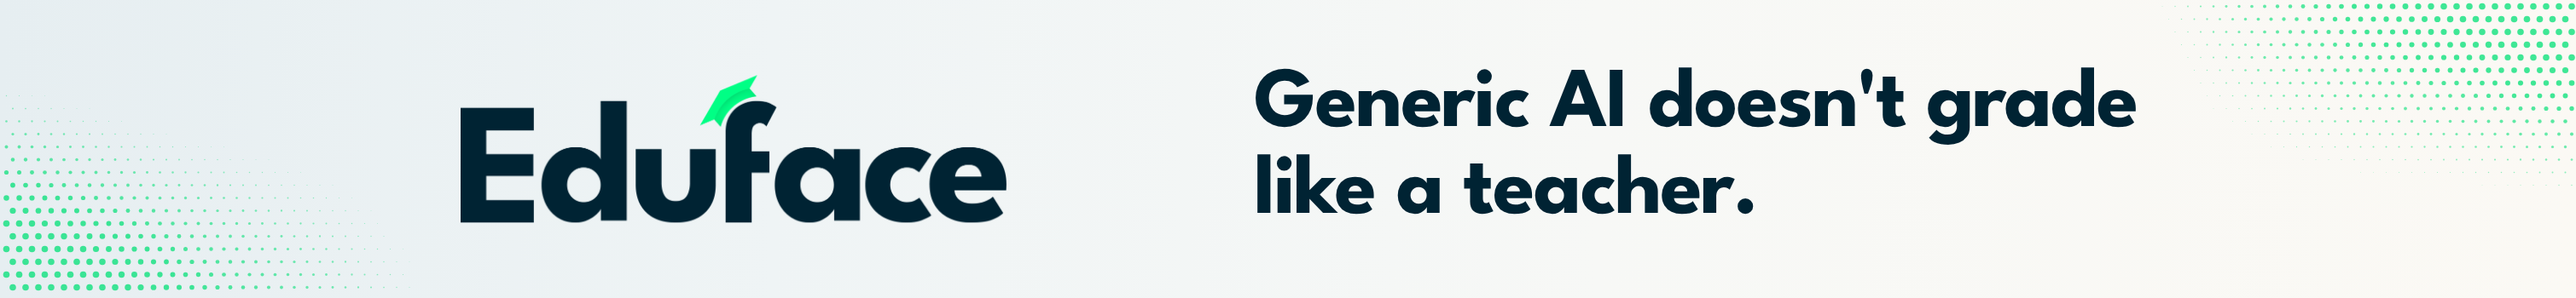
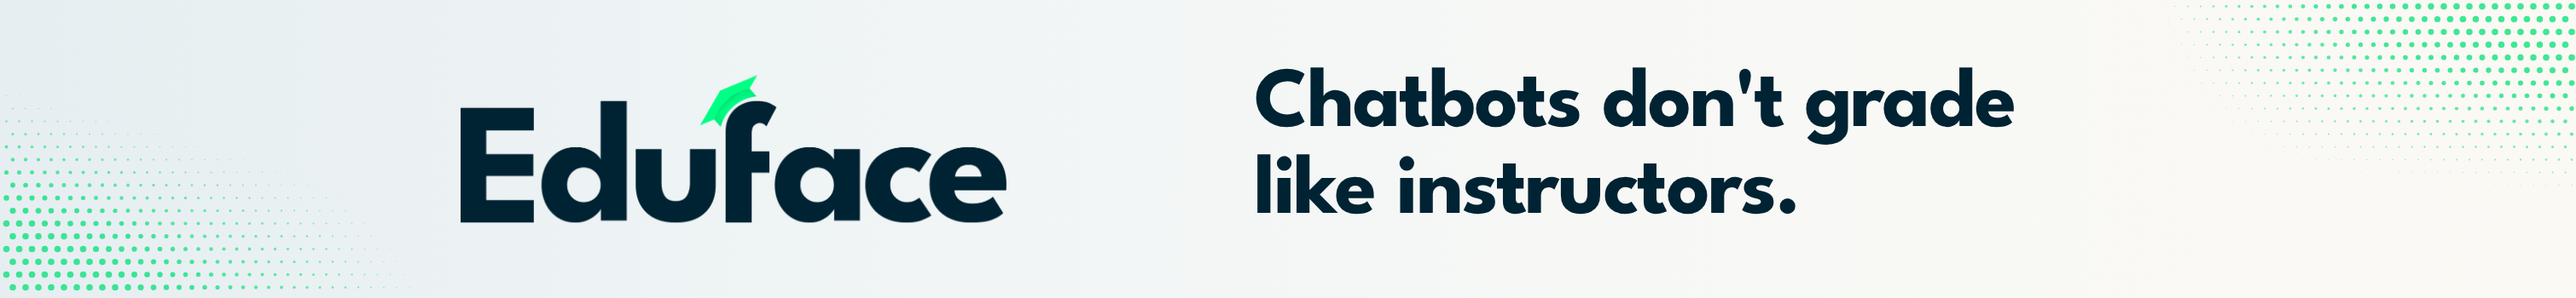
Backwall: beelden bij de quotes, licht-rode tool-box, Eduface AI met 250.000; gevel: Chatbots don't grade like instructors
Claude-Session: https://claude.ai/code/session_011t24oRcD5DFuXzKigdVhtb

Changed region(s): [[0.498, 0.2286, 0.8404, 0.4857], [0.5291, 0.5143, 0.7159, 0.7143]]

diff --git a/creatives/beurs-backwall/backwall.html b/creatives/beurs-backwall/backwall.html
@@ -4,8 +4,8 @@
 <meta charset="utf-8">
 <title>Beurs backwall</title>
 <style>
-  /* Canvas: 1 px = 1 mm. Wand is 2954 x 2520 mm. De kop staat op de gevel (facade.html), de wand heeft alleen quotes en Eduface.
-     Lettersysteem, drie maten: L 104 Inter (quotes) / M 68 League Spartan (koppen) / S 46 Inter (bronnen, labels). */
+  /* Canvas: 1 px = 1 mm. Wand 2954 x 2520 mm. De kop staat op de gevel (facade.html).
+     Lettersysteem: L 96 Inter (quotes) / M 84 League Spartan (koppen) / S 46 Inter (bronnen, labels) / XL 150 Spartan (alleen het getal). */
   @font-face { font-family: "League Spartan"; font-weight: 700; src: url("../../Design/Merk/fonts/LeagueSpartan-Bold.ttf"); }
   @font-face { font-family: "Inter"; font-weight: 400; src: url("../../Design/Merk/fonts/Inter-Regular.ttf"); }
   :root { --w: 2954px; --h: 2520px; --navy: #002333; --gd: #007b54; --g: #00e075; --i7: #2c4a57; --i5: #5b7480; --i3: #a9bcc4; --i2: #cdd9de; --i50: #f3f7f8; --red: #b3261e; }
@@ -18,37 +18,41 @@
       linear-gradient(180deg, #dce7ee 0%, #e2edf1 20%, #ecf3f5 40%, #f4f6f6 55%, #eff3f3 70%, #e4edf1 90%, #dde8ee 100%);
   }
   .logo { position: absolute; right: 128px; bottom: 128px; width: 420px; height: auto; }
-
   .row { position: absolute; left: 128px; top: 128px; width: 2698px; display: flex; gap: 36px; align-items: stretch; }
 
-  /* links: quotes. Rood alleen in het kleine vlak rond de drie tools. */
-  .q { width: 1400px; background: #fff; border-radius: 56px; padding: 64px 68px 64px; display: flex; flex-direction: column; justify-content: space-between; gap: 56px;
+  /* links: quotes met beeld. Rood alleen, en licht, in het kleine tool-vak. */
+  .q { width: 1500px; background: #fff; border-radius: 56px; padding: 64px 68px; display: flex; flex-direction: column; justify-content: space-between; gap: 52px;
        box-shadow: 0 10px 28px rgba(0,35,51,.10), 0 50px 110px rgba(0,35,51,.20); }
-  .qs { display: flex; flex-direction: column; gap: 60px; }
-  .qone { display: flex; gap: 22px; align-items: flex-start; }
-  .qm { font: 700 150px/.8 "League Spartan"; color: var(--i3); width: 76px; flex: none; margin-top: 10px; }
-  .qt { font: 400 104px/1.16 Inter; color: var(--navy); letter-spacing: -.005em; }
+  .qs { display: flex; flex-direction: column; gap: 56px; }
+  .qone { display: flex; gap: 44px; align-items: center; }
+  .vis { flex: none; width: 280px; height: 240px; }
+  .qt { font: 400 96px/1.16 Inter; color: var(--navy); letter-spacing: -.005em; }
+  .qt .qm { font: 700 96px/1 "League Spartan"; color: var(--i3); margin-right: 8px; }
   .qt mark { background: rgba(0,35,51,.08); color: inherit; padding: 0 12px; margin: 0 -12px; border-radius: 14px; -webkit-box-decoration-break: clone; box-decoration-break: clone; }
-  .who { font: 400 46px/1.2 Inter; color: var(--i5); margin-top: 22px; }
+  .who { font: 400 46px/1.2 Inter; color: var(--i5); margin-top: 18px; }
 
-  .tools .lab { font: 700 68px/1 "League Spartan"; letter-spacing: -.01em; color: var(--navy); margin-bottom: 26px; }
-  .redbox { display: inline-flex; gap: 20px; background: var(--red); border-radius: 36px; padding: 26px 28px; box-shadow: 0 10px 24px rgba(179,38,30,.28); }
-  .tl { width: 232px; height: 176px; border-radius: 26px; background: rgba(255,255,255,.14); box-shadow: inset 0 0 0 4px rgba(255,255,255,.42);
-        display: flex; flex-direction: column; align-items: center; justify-content: center; gap: 14px; font: 400 46px/1 Inter; color: #fff; }
-  .tl img { width: 70px; height: 70px; filter: brightness(0) invert(1); }
+  .tools .lab { font: 700 84px/1 "League Spartan"; letter-spacing: -.01em; color: var(--navy); margin-bottom: 26px; }
+  .redbox { display: inline-flex; gap: 22px; background: #f8e3e0; border: 4px solid #eec3be; border-radius: 40px; padding: 28px 32px; }
+  .tl { position: relative; width: 250px; height: 168px; border-radius: 28px; background: #fff; box-shadow: inset 0 0 0 4px #efc9c4;
+        display: flex; flex-direction: column; align-items: center; justify-content: center; gap: 14px; font: 400 46px/1 Inter; color: var(--i7); }
+  .tl img { width: 66px; height: 66px; opacity: .85; }
+  .x { position: absolute; top: -18px; right: -18px; width: 54px; height: 54px; border-radius: 50%; background: var(--red); box-shadow: 0 4px 10px rgba(179,38,30,.35); }
 
-  /* rechts: Eduface */
-  .e { width: 1262px; background: var(--navy); color: #fff; border-radius: 56px; padding: 64px 68px; display: flex; flex-direction: column; justify-content: space-between; gap: 56px;
+  /* rechts: Eduface. Icoon boven, tekst eronder. */
+  .e { width: 1162px; background: var(--navy); color: #fff; border-radius: 56px; padding: 64px 68px; display: flex; flex-direction: column; gap: 36px;
        box-shadow: 0 14px 34px rgba(0,35,51,.28), 0 60px 130px rgba(0,35,51,.34); }
   .es { flex: 1; display: flex; flex-direction: column; justify-content: space-evenly; }
-  .er { display: flex; align-items: center; gap: 44px; }
-  .it { flex: none; width: 250px; height: 250px; border-radius: 64px; background: rgba(255,255,255,.1); display: flex; align-items: center; justify-content: center; }
-  .eh { font: 700 68px/1.04 "League Spartan"; letter-spacing: -.01em; }
+  .eb .it { width: 150px; height: 150px; border-radius: 40px; background: rgba(255,255,255,.1); display: flex; align-items: center; justify-content: center; margin-bottom: 20px; }
+  .eh { font: 700 84px/1.04 "League Spartan"; letter-spacing: -.015em; }
   .eh span { color: var(--g); }
-  .own { height: 218px; border-radius: 36px; box-shadow: inset 0 0 0 6px var(--g); display: flex; align-items: center; gap: 30px; padding: 0 52px; }
-  .own img { height: 86px; width: auto; }
-  .own .ai { font: 700 68px/1 "League Spartan"; color: var(--g); letter-spacing: -.01em; }
-  .own .t2 { margin-left: auto; font: 400 46px/1.15 Inter; color: rgba(255,255,255,.8); text-align: right; }
+  .arrow { align-self: center; margin: 0; }
+  .own { margin-top: auto; border-radius: 40px; box-shadow: inset 0 0 0 6px var(--g); padding: 44px 52px; }
+  .own .top { display: flex; align-items: center; gap: 26px; }
+  .own .top img { height: 84px; width: auto; }
+  .own .top .ai { font: 700 84px/1 "League Spartan"; color: var(--g); letter-spacing: -.01em; }
+  .own .n { font: 700 150px/1 "League Spartan"; letter-spacing: -.025em; margin-top: 22px; }
+  .own .l { font: 400 46px/1.2 Inter; color: rgba(255,255,255,.85); margin-top: 8px; }
+  .own .d { font: 400 46px/1.2 Inter; color: rgba(255,255,255,.7); margin-top: 26px; }
 
   .lms { position: absolute; left: 128px; top: 2278px; height: 114px; display: flex; align-items: center; gap: 52px; }
   .lms img { height: 62px; width: auto; filter: grayscale(1) contrast(.9); opacity: .5; }
@@ -63,26 +67,50 @@
   </div>
 
 <script>
-const N='#002333', G='#00e075', W='#fff';
+const N='#002333', G='#00e075', W='#fff', I2='#cdd9de', I5='#5b7480', RED='#b3261e';
 const L=(f)=>`assets/logos/${f}.svg`;
-const sv=(inner,s=172)=>`<svg width="${s}" height="${s}" viewBox="0 0 400 400">${inner}</svg>`;
+const sv=(inner,s=120)=>`<svg width="${s}" height="${s}" viewBox="0 0 400 400">${inner}</svg>`;
 
-/* Quotes: formulering van Dante, 25-11-2026. Bron van quote 2 en 3 staat in de case study; de herschreven zinnen zijn nog niet aan die personen voorgelegd (V15). Quote 1: bron onbekend (V17). */
-const q=(t,w)=>`<div class="qone"><div class="qm">“</div><div><div class="qt">${t}</div>${w?`<div class="who">${w}</div>`:''}</div></div>`;
+/* ---- beelden bij de quotes (280 x 240) ---- */
+const lines=(x,y,w,n,c=I2)=>Array.from({length:n},(_,i)=>`<rect x="${x}" y="${y+i*16}" width="${i===n-1?w*.6:w}" height="7" rx="3.5" fill="${c}"/>`).join('');
+const sheet=(x,y,w,h)=>`<rect x="${x}" y="${y}" width="${w}" height="${h}" rx="12" fill="#fff" stroke="${N}" stroke-width="6"/>${lines(x+14,y+18,w-28,4)}`;
+// 1. Dezelfde opdracht twee keer, twee verschillende cijfers
+const vis1=`<svg class="vis" viewBox="0 0 280 240">${sheet(10,6,108,116)}${sheet(162,6,108,116)}
+  <path d="M64,128 V152" stroke="${N}" stroke-width="6" stroke-linecap="round"/><path d="M216,128 V152" stroke="${N}" stroke-width="6" stroke-linecap="round"/>
+  <rect x="22" y="158" width="84" height="74" rx="18" fill="${N}"/><text x="64" y="212" text-anchor="middle" font-family="League Spartan" font-weight="700" font-size="54" fill="#fff">B</text>
+  <rect x="174" y="158" width="84" height="74" rx="18" fill="${N}"/><text x="216" y="212" text-anchor="middle" font-family="League Spartan" font-weight="700" font-size="54" fill="#fff">D</text>
+  <circle cx="140" cy="195" r="22" fill="#fff" stroke="${RED}" stroke-width="5"/><path d="M128,189 H152 M128,201 H152 M146,180 L134,210" stroke="${RED}" stroke-width="5" stroke-linecap="round"/></svg>`;
+// 2. Robot: dezelfde generieke feedback voor iedere student
+const bub=(x)=>`<rect x="${x}" y="122" width="76" height="50" rx="12" fill="#fff" stroke="${N}" stroke-width="5"/>${lines(x+12,136,52,2,I5)}<path d="M${x+26},172 l-6,12 l18,-12" fill="#fff" stroke="${N}" stroke-width="5" stroke-linejoin="round"/><circle cx="${x+38}" cy="206" r="14" fill="${I2}"/><path d="M${x+14},236 q24,-30 48,0" fill="${I2}"/>`;
+const vis2=`<svg class="vis" viewBox="0 0 280 240"><line x1="140" y1="4" x2="140" y2="20" stroke="${N}" stroke-width="6" stroke-linecap="round"/><circle cx="140" cy="6" r="6" fill="${N}"/>
+  <rect x="92" y="22" width="96" height="76" rx="22" fill="#fff" stroke="${N}" stroke-width="6"/><circle cx="118" cy="52" r="9" fill="${N}"/><circle cx="162" cy="52" r="9" fill="${N}"/><path d="M118,76 H162" stroke="${N}" stroke-width="6" stroke-linecap="round" stroke-dasharray="6 8"/>
+  ${bub(4)}${bub(102)}${bub(200)}</svg>`;
+// 3. Elke opdracht opnieuw promoten
+const pr=(x)=>`${sheet(x,6,76,90)}<path d="M${x+38},100 V114" stroke="${N}" stroke-width="5" stroke-linecap="round"/><rect x="${x-4}" y="118" width="84" height="40" rx="20" fill="${N}"/><rect x="${x+14}" y="133" width="30" height="8" rx="4" fill="${W}"/><rect x="${x+52}" y="130" width="4" height="14" fill="${G}"/>`;
+const vis3=`<svg class="vis" viewBox="0 0 280 240">${pr(14)}${pr(102)}${pr(190)}
+  <path d="M58,196 q82,50 164,0" fill="none" stroke="${N}" stroke-width="6" stroke-linecap="round"/><path d="M212,182 l16,12 l-20,8" fill="none" stroke="${N}" stroke-width="6" stroke-linecap="round" stroke-linejoin="round"/></svg>`;
+
+/* ---- links ---- */
+const q=(vis,t,w)=>`<div class="qone">${vis}<div><div class="qt"><span class="qm">“</span>${t}</div>${w?`<div class="who">${w}</div>`:''}</div></div>`;
 const R1='Head of academic innovation, private university', R2='AVP instructional design, US technical college';
-const tool=(img,name)=>`<div class="tl"><img src="${L(img)}">${name}</div>`;
+const x=`<div class="x"><svg width="54" height="54" viewBox="0 0 54 54"><path d="M18,18 L36,36 M36,18 L18,36" stroke="#fff" stroke-width="6" stroke-linecap="round"/></svg></div>`;
+const tool=(img,name)=>`<div class="tl"><img src="${L(img)}">${name}${x}</div>`;
 const left=`<div class="q"><div class="qs">`+
-  q('Same rubric, same essay, uploaded twice. <mark>Two different grades.</mark>','')+
-  q('After a few essays it goes generic. <mark>Every student gets the same feedback.</mark>',R1)+
-  q('You have to re-prompt it <mark>for every single assignment.</mark>',R2)+
-  `</div><div class="tools"><div class="lab">Not built for marking.</div><div class="redbox">${tool('openai','ChatGPT')}${tool('googlegemini','Gemini')}${tool('claude','Claude')}</div></div></div>`;
+  q(vis1,'Same rubric, same essay, uploaded twice. <mark>Two different grades.</mark>','')+
+  q(vis2,'After a few essays it goes generic. <mark>Every student gets the same feedback.</mark>',R1)+
+  q(vis3,'You have to re-prompt it <mark>for every single assignment.</mark>',R2)+
+  `</div><div class="tools"><div class="lab">Not built for grading.</div><div class="redbox">${tool('openai','ChatGPT')}${tool('googlegemini','Gemini')}${tool('claude','Claude')}</div></div></div>`;
 
+/* ---- rechts ---- */
 const icTeacher=sv(`<circle cx="150" cy="108" r="64" fill="none" stroke="${W}" stroke-width="30"/><path d="M36,340 C36,236 264,236 264,340" fill="none" stroke="${W}" stroke-width="30" stroke-linecap="round"/><circle cx="312" cy="294" r="62" fill="${G}"/><polyline points="282,294 304,316 342,270" fill="none" stroke="${N}" stroke-width="22" stroke-linecap="round" stroke-linejoin="round"/>`);
 const icBubbles=sv(`<rect x="30" y="34" width="230" height="104" rx="38" fill="none" stroke="${W}" stroke-width="26"/><rect x="60" y="68" width="110" height="18" rx="9" fill="${W}"/><rect x="140" y="156" width="230" height="104" rx="38" fill="rgba(255,255,255,.14)" stroke="${W}" stroke-width="26"/><rect x="172" y="190" width="150" height="18" rx="9" fill="${W}"/><rect x="30" y="278" width="230" height="104" rx="38" fill="none" stroke="${W}" stroke-width="26"/><rect x="60" y="312" width="84" height="18" rx="9" fill="${G}"/>`);
 const icSheets=sv(`<rect x="130" y="24" width="220" height="270" rx="30" fill="none" stroke="${W}" stroke-width="22" opacity=".4"/><rect x="90" y="64" width="220" height="270" rx="30" fill="none" stroke="${W}" stroke-width="22" opacity=".7"/><rect x="44" y="108" width="220" height="270" rx="30" fill="${N}" stroke="${W}" stroke-width="26"/>${[160,222,284].map(y=>`<polyline points="76,${y} 92,${y+16} 118,${y-14}" fill="none" stroke="${G}" stroke-width="14" stroke-linecap="round" stroke-linejoin="round"/><rect x="134" y="${y-8}" width="98" height="14" rx="7" fill="${W}"/>`).join('')}`);
-const ER=[{ic:icTeacher,h:'Trained on how <span>teachers mark.</span>'},{ic:icBubbles,h:'Feedback <span>per student.</span>'},{ic:icSheets,h:'Set up <span>once.</span>'}];
-const right=`<div class="e"><div class="es">`+ER.map(r=>`<div class="er"><div class="it">${r.ic}</div><div class="eh">${r.h}</div></div>`).join('')+
-  `</div><div class="own"><img src="assets/logos/eduface-white.png"><div class="ai">AI</div><div class="t2">our own<br>model</div></div></div>`;
+const EB=[{ic:icTeacher,h:'Trained on how <span>instructors grade.</span>'},{ic:icBubbles,h:'Feedback <span>per student.</span>'},{ic:icSheets,h:'Set up <span>once.</span>'}];
+const arrow=`<svg class="arrow" width="96" height="84" viewBox="0 0 96 84"><path d="M48,6 V62" stroke="${G}" stroke-width="12" stroke-linecap="round"/><polyline points="20,40 48,70 76,40" fill="none" stroke="${G}" stroke-width="12" stroke-linecap="round" stroke-linejoin="round"/></svg>`;
+const right=`<div class="e"><div class="es">`+EB.map(r=>`<div class="eb"><div class="it">${r.ic}</div><div class="eh">${r.h}</div></div>`).join('')+`</div>${arrow}
+  <div class="own"><div class="top"><img src="assets/logos/eduface-white.png"><div class="ai">AI</div></div>
+  <div class="n">250,000</div><div class="l">education-specific feedback examples</div>
+  <div class="d">Developed with the help of Leiden University and Radboud University.</div></div></div>`;
 
 const lms=`<div class="lms"><div class="lab">Integrated with your LMS</div><img src="assets/logos/lms-canvas.png"><img src="assets/logos/lms-moodle.png"><img src="assets/logos/lms-blackboard.png"><img src="assets/logos/lms-brightspace.png"><div class="wm">itslearning</div><div class="wm">NEO LMS</div></div>`;
 document.getElementById('layer-content').innerHTML = `<div class="row">${left}${right}</div>${lms}`;

diff --git a/creatives/beurs-backwall/backwall-links-rechts-2026-11-25.html b/creatives/beurs-backwall/backwall-links-rechts-2026-11-25.html
@@ -1,0 +1,91 @@
+<!doctype html>
+<html lang="en">
+<head>
+<meta charset="utf-8">
+<title>Beurs backwall</title>
+<style>
+  /* Canvas: 1 px = 1 mm. Wand is 2954 x 2520 mm. De kop staat op de gevel (facade.html), de wand heeft alleen quotes en Eduface.
+     Lettersysteem, drie maten: L 104 Inter (quotes) / M 68 League Spartan (koppen) / S 46 Inter (bronnen, labels). */
+  @font-face { font-family: "League Spartan"; font-weight: 700; src: url("../../Design/Merk/fonts/LeagueSpartan-Bold.ttf"); }
+  @font-face { font-family: "Inter"; font-weight: 400; src: url("../../Design/Merk/fonts/Inter-Regular.ttf"); }
+  :root { --w: 2954px; --h: 2520px; --navy: #002333; --gd: #007b54; --g: #00e075; --i7: #2c4a57; --i5: #5b7480; --i3: #a9bcc4; --i2: #cdd9de; --i50: #f3f7f8; --red: #b3261e; }
+  * { margin: 0; box-sizing: border-box; }
+  html, body { width: var(--w); height: var(--h); }
+  .wall {
+    position: relative; width: var(--w); height: var(--h); overflow: hidden; color: var(--navy);
+    background:
+      radial-gradient(ellipse 80% 45% at 90% 52%, #f9f8f7 0%, rgba(249,248,247,0) 100%),
+      linear-gradient(180deg, #dce7ee 0%, #e2edf1 20%, #ecf3f5 40%, #f4f6f6 55%, #eff3f3 70%, #e4edf1 90%, #dde8ee 100%);
+  }
+  .logo { position: absolute; right: 128px; bottom: 128px; width: 420px; height: auto; }
+
+  .row { position: absolute; left: 128px; top: 128px; width: 2698px; display: flex; gap: 36px; align-items: stretch; }
+
+  /* links: quotes. Rood alleen in het kleine vlak rond de drie tools. */
+  .q { width: 1400px; background: #fff; border-radius: 56px; padding: 64px 68px 64px; display: flex; flex-direction: column; justify-content: space-between; gap: 56px;
+       box-shadow: 0 10px 28px rgba(0,35,51,.10), 0 50px 110px rgba(0,35,51,.20); }
+  .qs { display: flex; flex-direction: column; gap: 60px; }
+  .qone { display: flex; gap: 22px; align-items: flex-start; }
+  .qm { font: 700 150px/.8 "League Spartan"; color: var(--i3); width: 76px; flex: none; margin-top: 10px; }
+  .qt { font: 400 104px/1.16 Inter; color: var(--navy); letter-spacing: -.005em; }
+  .qt mark { background: rgba(0,35,51,.08); color: inherit; padding: 0 12px; margin: 0 -12px; border-radius: 14px; -webkit-box-decoration-break: clone; box-decoration-break: clone; }
+  .who { font: 400 46px/1.2 Inter; color: var(--i5); margin-top: 22px; }
+
+  .tools .lab { font: 700 68px/1 "League Spartan"; letter-spacing: -.01em; color: var(--navy); margin-bottom: 26px; }
+  .redbox { display: inline-flex; gap: 20px; background: var(--red); border-radius: 36px; padding: 26px 28px; box-shadow: 0 10px 24px rgba(179,38,30,.28); }
+  .tl { width: 232px; height: 176px; border-radius: 26px; background: rgba(255,255,255,.14); box-shadow: inset 0 0 0 4px rgba(255,255,255,.42);
+        display: flex; flex-direction: column; align-items: center; justify-content: center; gap: 14px; font: 400 46px/1 Inter; color: #fff; }
+  .tl img { width: 70px; height: 70px; filter: brightness(0) invert(1); }
+
+  /* rechts: Eduface */
+  .e { width: 1262px; background: var(--navy); color: #fff; border-radius: 56px; padding: 64px 68px; display: flex; flex-direction: column; justify-content: space-between; gap: 56px;
+       box-shadow: 0 14px 34px rgba(0,35,51,.28), 0 60px 130px rgba(0,35,51,.34); }
+  .es { flex: 1; display: flex; flex-direction: column; justify-content: space-evenly; }
+  .er { display: flex; align-items: center; gap: 44px; }
+  .it { flex: none; width: 250px; height: 250px; border-radius: 64px; background: rgba(255,255,255,.1); display: flex; align-items: center; justify-content: center; }
+  .eh { font: 700 68px/1.04 "League Spartan"; letter-spacing: -.01em; }
+  .eh span { color: var(--g); }
+  .own { height: 218px; border-radius: 36px; box-shadow: inset 0 0 0 6px var(--g); display: flex; align-items: center; gap: 30px; padding: 0 52px; }
+  .own img { height: 86px; width: auto; }
+  .own .ai { font: 700 68px/1 "League Spartan"; color: var(--g); letter-spacing: -.01em; }
+  .own .t2 { margin-left: auto; font: 400 46px/1.15 Inter; color: rgba(255,255,255,.8); text-align: right; }
+
+  .lms { position: absolute; left: 128px; top: 2278px; height: 114px; display: flex; align-items: center; gap: 52px; }
+  .lms img { height: 62px; width: auto; filter: grayscale(1) contrast(.9); opacity: .5; }
+  .lms .wm { font: 700 46px/1 "League Spartan"; letter-spacing: -.01em; color: var(--i5); opacity: .75; white-space: nowrap; }
+  .lms .lab { position: absolute; left: 0; top: -62px; font: 400 46px/1 Inter; color: var(--i5); white-space: nowrap; }
+</style>
+</head>
+<body>
+  <div class="wall" id="wall">
+    <div id="layer-content"></div>
+    <img class="logo" src="../../Design/Merk/logos/logo_navy.png" alt="Eduface">
+  </div>
+
+<script>
+const N='#002333', G='#00e075', W='#fff';
+const L=(f)=>`assets/logos/${f}.svg`;
+const sv=(inner,s=172)=>`<svg width="${s}" height="${s}" viewBox="0 0 400 400">${inner}</svg>`;
+
+/* Quotes: formulering van Dante, 25-11-2026. Bron van quote 2 en 3 staat in de case study; de herschreven zinnen zijn nog niet aan die personen voorgelegd (V15). Quote 1: bron onbekend (V17). */
+const q=(t,w)=>`<div class="qone"><div class="qm">“</div><div><div class="qt">${t}</div>${w?`<div class="who">${w}</div>`:''}</div></div>`;
+const R1='Head of academic innovation, private university', R2='AVP instructional design, US technical college';
+const tool=(img,name)=>`<div class="tl"><img src="${L(img)}">${name}</div>`;
+const left=`<div class="q"><div class="qs">`+
+  q('Same rubric, same essay, uploaded twice. <mark>Two different grades.</mark>','')+
+  q('After a few essays it goes generic. <mark>Every student gets the same feedback.</mark>',R1)+
+  q('You have to re-prompt it <mark>for every single assignment.</mark>',R2)+
+  `</div><div class="tools"><div class="lab">Not built for marking.</div><div class="redbox">${tool('openai','ChatGPT')}${tool('googlegemini','Gemini')}${tool('claude','Claude')}</div></div></div>`;
+
+const icTeacher=sv(`<circle cx="150" cy="108" r="64" fill="none" stroke="${W}" stroke-width="30"/><path d="M36,340 C36,236 264,236 264,340" fill="none" stroke="${W}" stroke-width="30" stroke-linecap="round"/><circle cx="312" cy="294" r="62" fill="${G}"/><polyline points="282,294 304,316 342,270" fill="none" stroke="${N}" stroke-width="22" stroke-linecap="round" stroke-linejoin="round"/>`);
+const icBubbles=sv(`<rect x="30" y="34" width="230" height="104" rx="38" fill="none" stroke="${W}" stroke-width="26"/><rect x="60" y="68" width="110" height="18" rx="9" fill="${W}"/><rect x="140" y="156" width="230" height="104" rx="38" fill="rgba(255,255,255,.14)" stroke="${W}" stroke-width="26"/><rect x="172" y="190" width="150" height="18" rx="9" fill="${W}"/><rect x="30" y="278" width="230" height="104" rx="38" fill="none" stroke="${W}" stroke-width="26"/><rect x="60" y="312" width="84" height="18" rx="9" fill="${G}"/>`);
+const icSheets=sv(`<rect x="130" y="24" width="220" height="270" rx="30" fill="none" stroke="${W}" stroke-width="22" opacity=".4"/><rect x="90" y="64" width="220" height="270" rx="30" fill="none" stroke="${W}" stroke-width="22" opacity=".7"/><rect x="44" y="108" width="220" height="270" rx="30" fill="${N}" stroke="${W}" stroke-width="26"/>${[160,222,284].map(y=>`<polyline points="76,${y} 92,${y+16} 118,${y-14}" fill="none" stroke="${G}" stroke-width="14" stroke-linecap="round" stroke-linejoin="round"/><rect x="134" y="${y-8}" width="98" height="14" rx="7" fill="${W}"/>`).join('')}`);
+const ER=[{ic:icTeacher,h:'Trained on how <span>teachers mark.</span>'},{ic:icBubbles,h:'Feedback <span>per student.</span>'},{ic:icSheets,h:'Set up <span>once.</span>'}];
+const right=`<div class="e"><div class="es">`+ER.map(r=>`<div class="er"><div class="it">${r.ic}</div><div class="eh">${r.h}</div></div>`).join('')+
+  `</div><div class="own"><img src="assets/logos/eduface-white.png"><div class="ai">AI</div><div class="t2">our own<br>model</div></div></div>`;
+
+const lms=`<div class="lms"><div class="lab">Integrated with your LMS</div><img src="assets/logos/lms-canvas.png"><img src="assets/logos/lms-moodle.png"><img src="assets/logos/lms-blackboard.png"><img src="assets/logos/lms-brightspace.png"><div class="wm">itslearning</div><div class="wm">NEO LMS</div></div>`;
+document.getElementById('layer-content').innerHTML = `<div class="row">${left}${right}</div>${lms}`;
+</script>
+</body>
+</html>

diff --git a/creatives/beurs-backwall/facade.html b/creatives/beurs-backwall/facade.html
@@ -14,7 +14,7 @@
 <div id="f">
   <svg class="dots" width="3020" height="350" viewBox="0 0 3020 350" id="d"></svg>
   <img class="logo" src="../../Design/Merk/logos/logo_navy.png">
-  <div class="h">Generic AI doesn't grade<br>like a teacher.</div>
+  <div class="h">Chatbots don't grade<br>like instructors.</div>
 </div>
 <script>
 /* halftone-stippen: grootte volgt de afstand tot een golvende rand, links onder en rechts boven */
